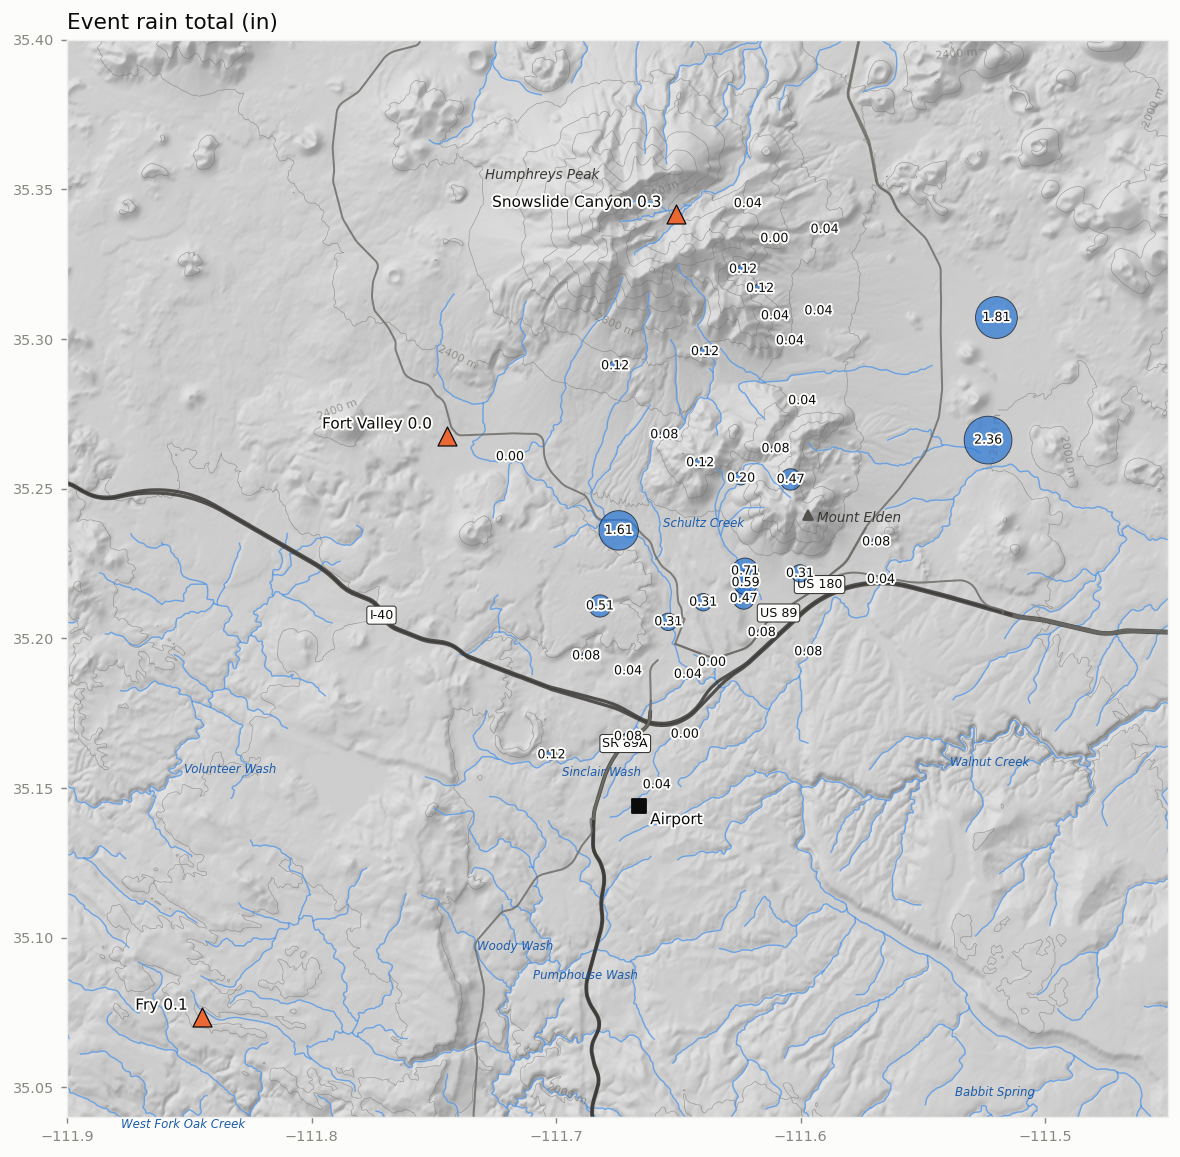
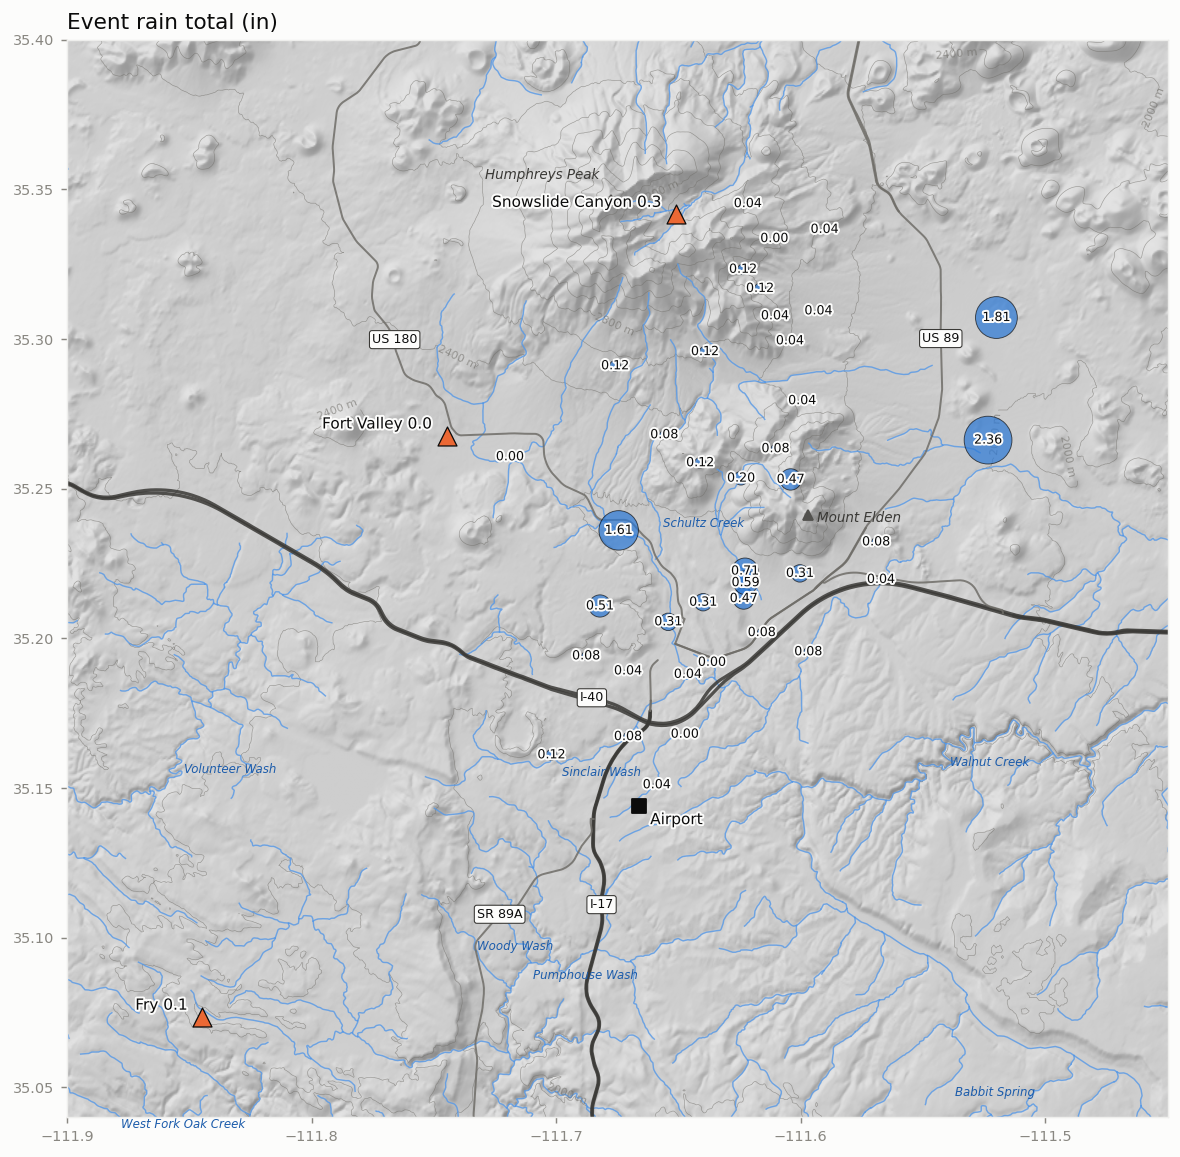
Add site glossary with first-mention links and tooltips; move route labels
- site/_glossary.yml: 23 terms with definitions and aliases
- glossary.lua: on every page, links the first mention of each term to its
  glossary entry (skipping headings, links and code) with the definition
  shown as a tooltip
- Glossary page and navbar link
- US 89 and US 180 labels placed near 35.3 N; route labels use the part of
  each route inside the map

diff --git a/site/_glossary-tooltips.html b/site/_glossary-tooltips.html
@@ -1,0 +1,17 @@
+<style>
+  a.gloss { text-decoration: underline dotted; text-underline-offset: 3px; color: inherit; }
+  a.gloss:hover { text-decoration-style: solid; }
+</style>
+<script>
+  document.addEventListener('DOMContentLoaded', function () {
+    var els = document.querySelectorAll('a.gloss');
+    if (window.tippy) {
+      window.tippy(els, {
+        content: function (el) { return el.getAttribute('data-def'); },
+        theme: 'quarto', maxWidth: 380, placement: 'top', delay: [150, 0],
+      });
+    } else {
+      els.forEach(function (el) { el.title = el.getAttribute('data-def'); });
+    }
+  });
+</script>

diff --git a/flagweather/basemap.py b/flagweather/basemap.py
@@ -25,6 +25,8 @@ DEM_URL = 'https://elevation.nationalmap.gov/arcgis/rest/services/3DEPElevation/
 NHD_URL = 'https://hydro.nationalmap.gov/arcgis/rest/services/nhd/MapServer/4/query'
 TIGER_URL = 'https://tigerweb.geo.census.gov/arcgis/rest/services/TIGERweb/Transportation/MapServer/{}/query'
 # (label, approx. lat, lon, search radius deg, label offset pts, alignment); marker at the DEM maximum near the point
+# Route labels placed at a chosen latitude (others go at the midpoint of the route's longest piece)
+ROUTE_LABEL_LAT = {'US 89': 35.3, 'US 180': 35.3}
 PEAKS = [('Humphreys Peak', 35.346, -111.678, 0.03, (-6, 12), 'right'),
          ('Mount Elden', 35.242, -111.597, 0.03, (5, -4), 'left')]
 
@@ -101,8 +103,8 @@ def draw(ax, extent=None):
             if w < x < e and s < y < n:
                 ax.annotate(name, (x, y), fontsize=6.5, color='#1c5cab', style='italic', zorder=2,
                             xytext=(3, -8), textcoords='offset points')
-    labelled = set()
-    for f in sorted(roads['features'], key=lambda f: f['properties'].get('RTTYP') != 'I'):
+    route_pts = {}
+    for f in roads['features']:
         lab = _route(f['properties'])
         g = f['geometry']
         parts = g['coordinates'] if g['type'] == 'MultiLineString' else [g['coordinates']]
@@ -111,13 +113,20 @@ def draw(ax, extent=None):
             x, y = zip(*p)
             ax.plot(x, y, color='#3a3936' if inter else '#6f6d68', lw=1.8 if inter else 1.1, alpha=0.85,
                     zorder=1.5, solid_capstyle='round')
-        if lab not in labelled and parts:
-            p = max(parts, key=len)
+        route_pts.setdefault(lab, []).append(max(parts, key=len))
+    for lab, parts in route_pts.items():
+        inside = [[pt for pt in p if w < pt[0] < e and s < pt[1] < n] for p in parts]
+        inside = [p for p in inside if p]
+        if not inside:
+            continue
+        if lab in ROUTE_LABEL_LAT:   # place at the vertex closest to the chosen latitude
+            x, y = min((pt for p in inside for pt in p), key=lambda pt: abs(pt[1] - ROUTE_LABEL_LAT[lab]))
+        else:                        # midpoint of the longest piece inside the map
+            p = max(inside, key=len)
             x, y = p[len(p) // 2]
-            if w < x < e and s < y < n:
-                ax.annotate(lab, (x, y), fontsize=7, color='#0b0b0b', ha='center', va='center', zorder=2.5,
-                            bbox=dict(boxstyle='round,pad=0.2', fc='#fcfcfb', ec='#3a3936', lw=0.6))
-                labelled.add(lab)
+        if lab:
+            ax.annotate(lab, (x, y), fontsize=7, color='#0b0b0b', ha='center', va='center', zorder=2.5,
+                        bbox=dict(boxstyle='round,pad=0.2', fc='#fcfcfb', ec='#3a3936', lw=0.6))
     for label, la, lo, r, off, ha in PEAKS:
         m = (np.abs(lats[:, None] - la) <= r) & (np.abs(lons[None, :] - lo) <= r)
         i = np.unravel_index(np.argmax(np.where(m, dem, -np.inf)), dem.shape)

diff --git a/README.md b/README.md
@@ -15,6 +15,7 @@ flagweather/          Python package
   figures/            event maps, gauge maps and time series
 scripts/              make_event_page.py
 site/                 Quarto website (rendered by GitHub Actions to GitHub Pages)
+  _glossary.yml       glossary terms; glossary.lua links the first mention of each term on every page
 data/                 download cache (git-ignored); data/derived/ holds small committed tables
 ```
 
